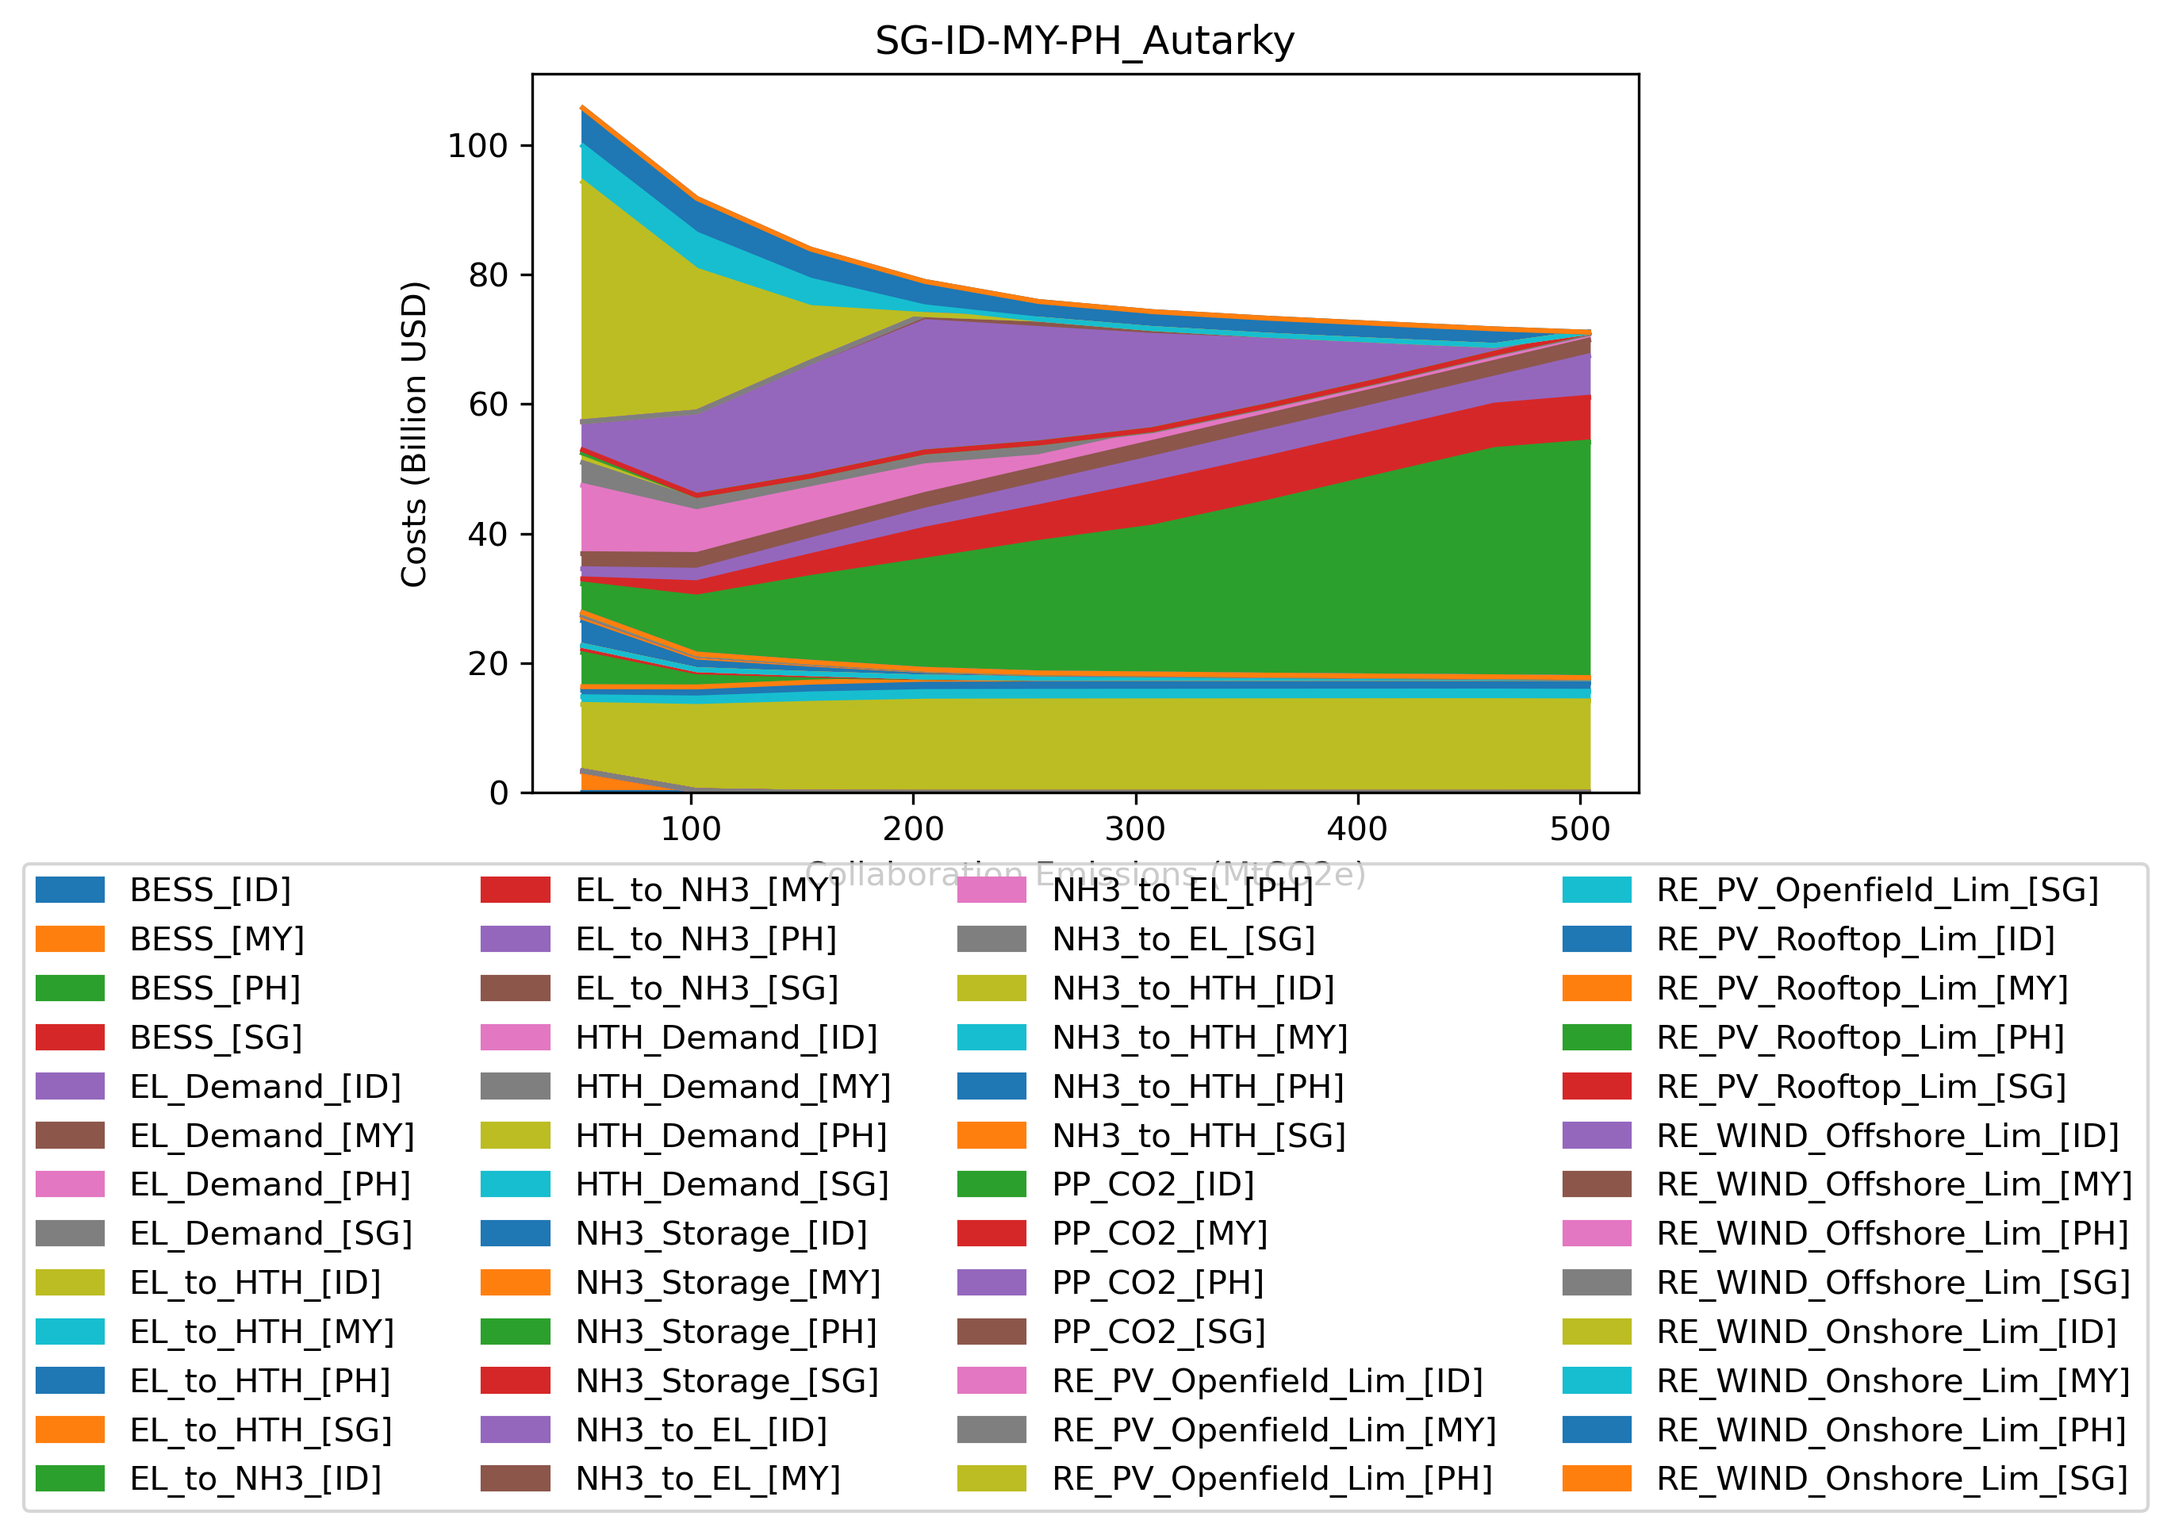
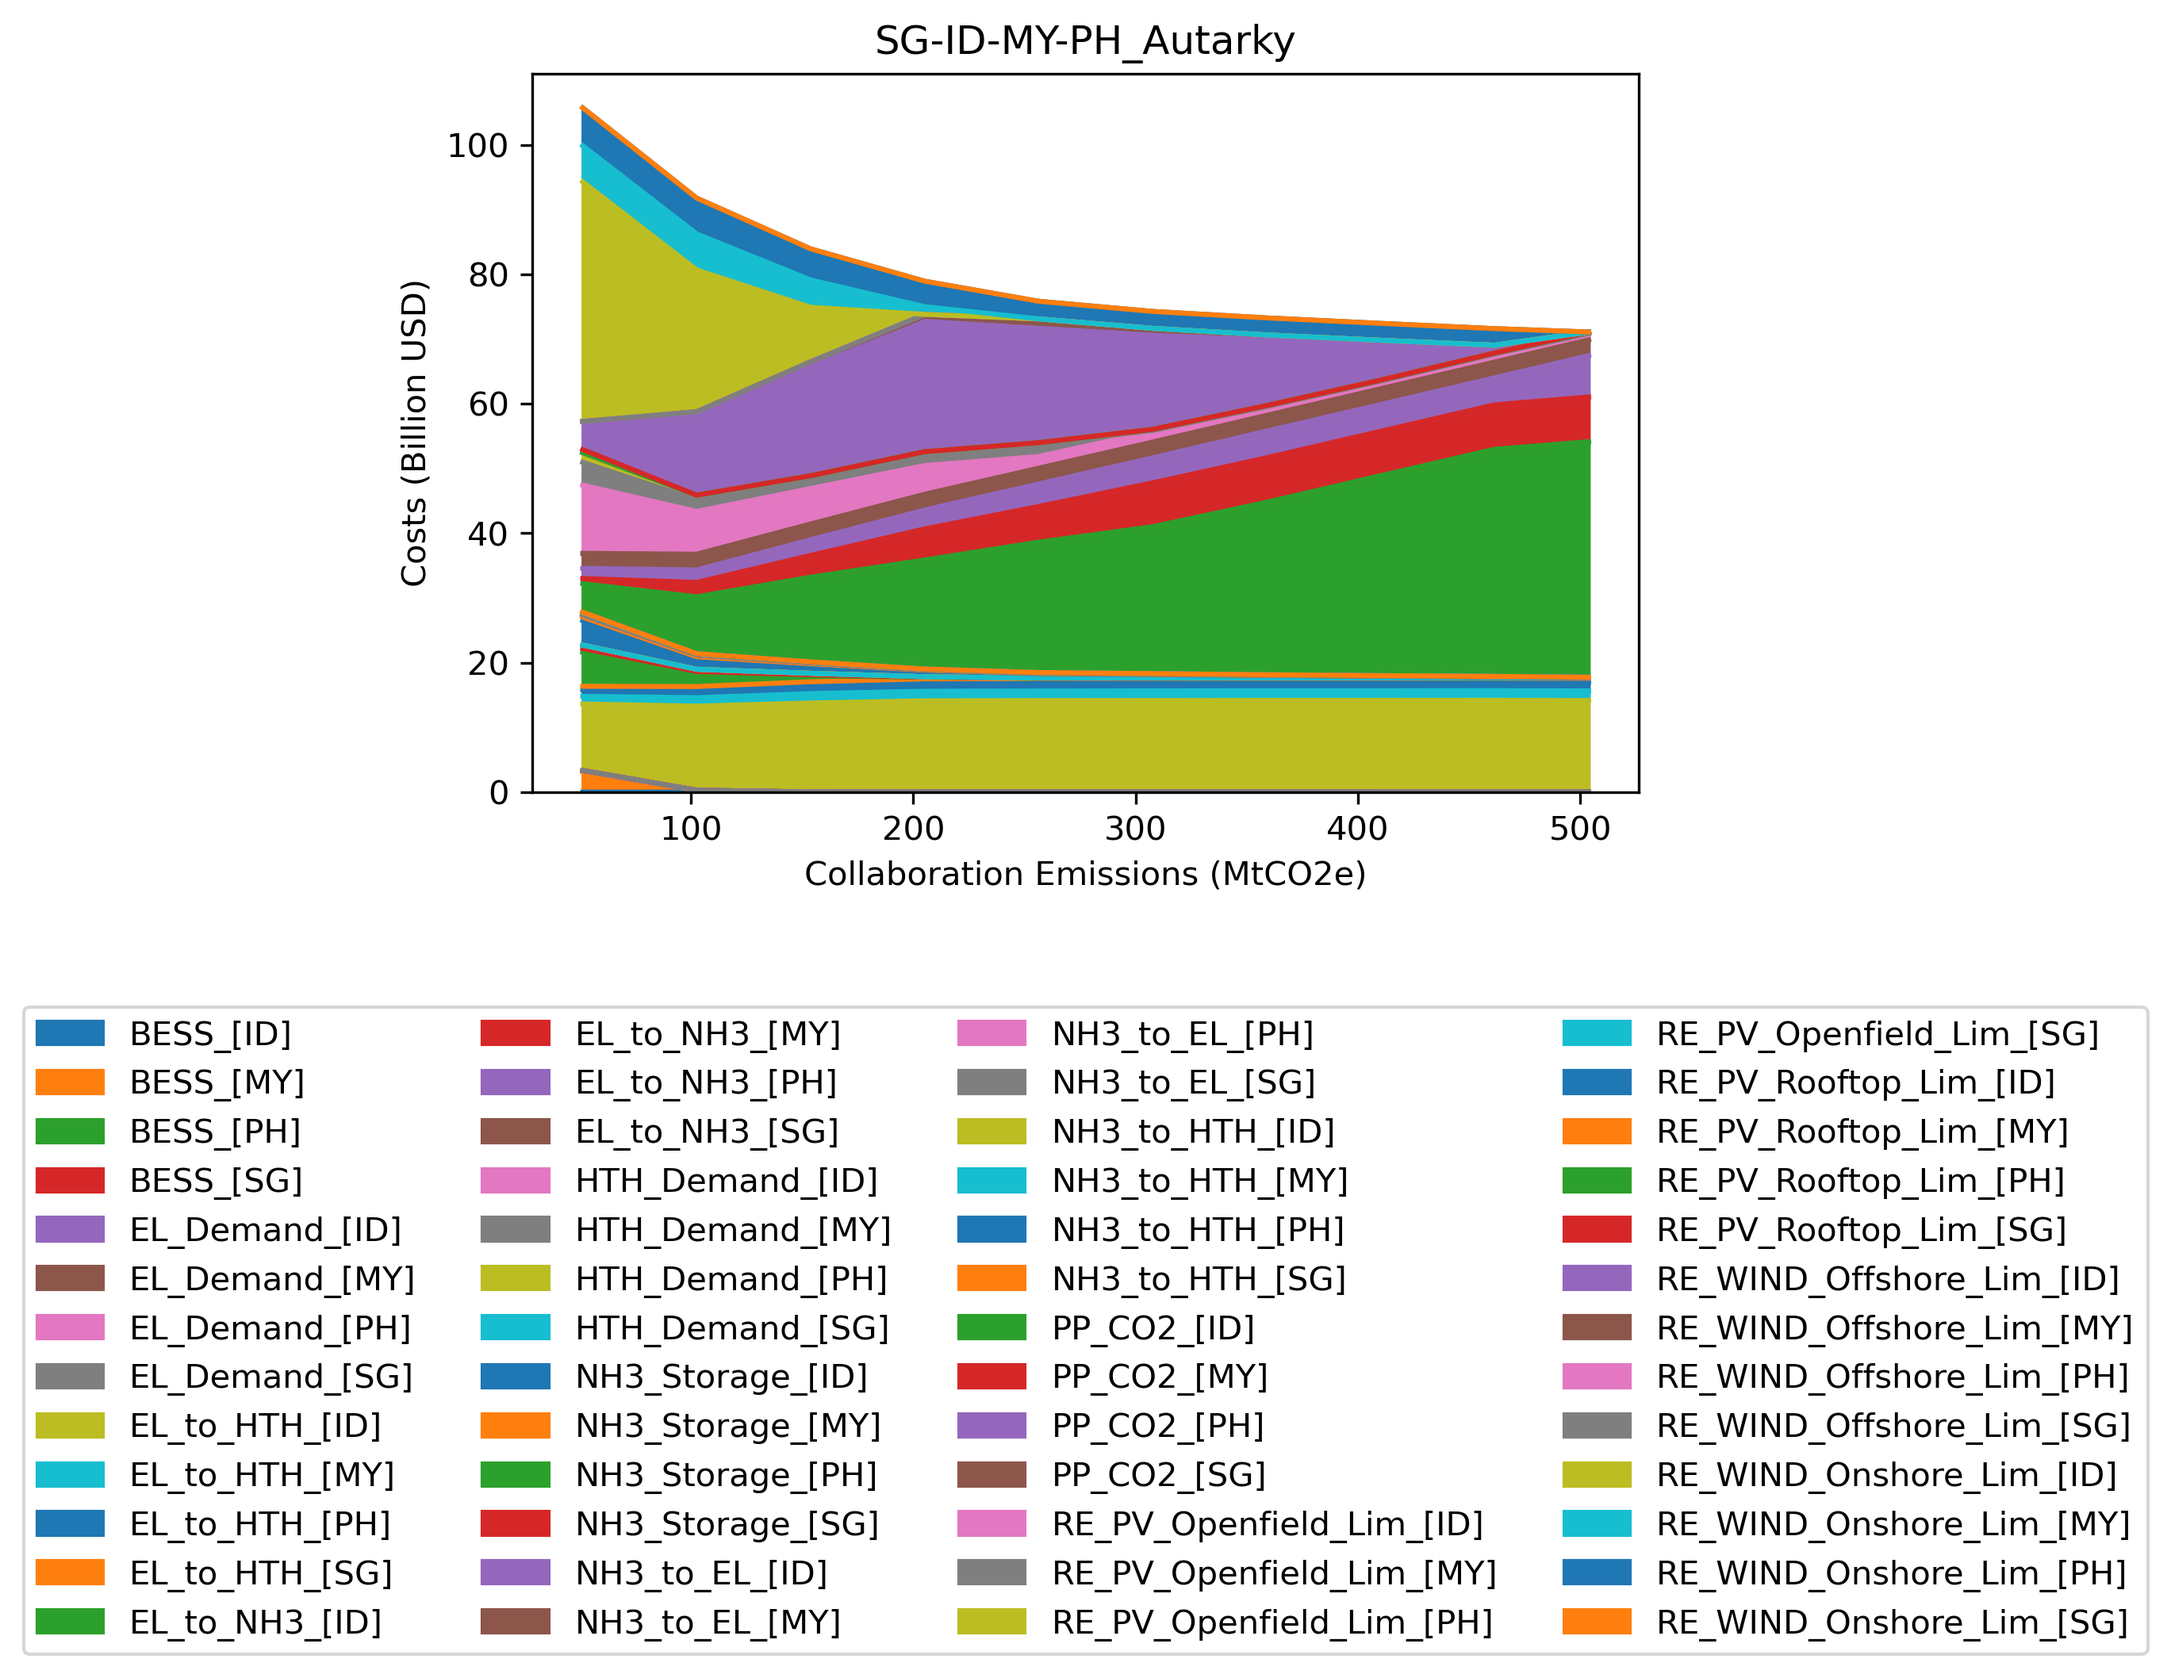
Updated legend position in 4-country case studies

Changed region(s): [[0.1863, 0.0, 0.9938, 0.9922], [0.0, 0.5581, 0.1863, 0.9922], [0.2174, 0.155, 0.2484, 0.186]]

diff --git a/GMPA_plot_mitigation_curve.py b/GMPA_plot_mitigation_curve.py
@@ -13,7 +13,7 @@ import os
 
 
 ###### Autarky Case Studies #########
-case_study_name = "Autarky_SG"
+# case_study_name = "Autarky_SG"
 # case_study_name = "Autarky_ID"
 # case_study_name = "Autarky_MY"
 # case_study_name = "Autarky_VN"
@@ -61,8 +61,8 @@ case_study_name = "Autarky_SG"
 
 
 ###### Four Country Case Studies #########
-case_study_name = "SG-ID-MY-PH_Autarky"
-# case_study_name = "SG-ID-MY-PH_Collab"
+# case_study_name = "SG-ID-MY-PH_Autarky"
+case_study_name = "SG-ID-MY-PH_Collab"
 
 
 
@@ -117,7 +117,7 @@ df.plot.area(ax=ax)
 ax.set_title(f"{case_study_name}")
 ax.set_xlabel("Collaboration Emissions (MtCO2e)")
 ax.set_ylabel("Costs (Billion USD)")
-ax.legend(bbox_to_anchor=(0.5, -1), loc='lower center', borderaxespad=0, ncols=4)
+ax.legend(bbox_to_anchor=(0.5, -1.3), loc='lower center', borderaxespad=0, ncols=4)
 fig.savefig(plot_filename, dpi=300, bbox_inches="tight")
 
 
